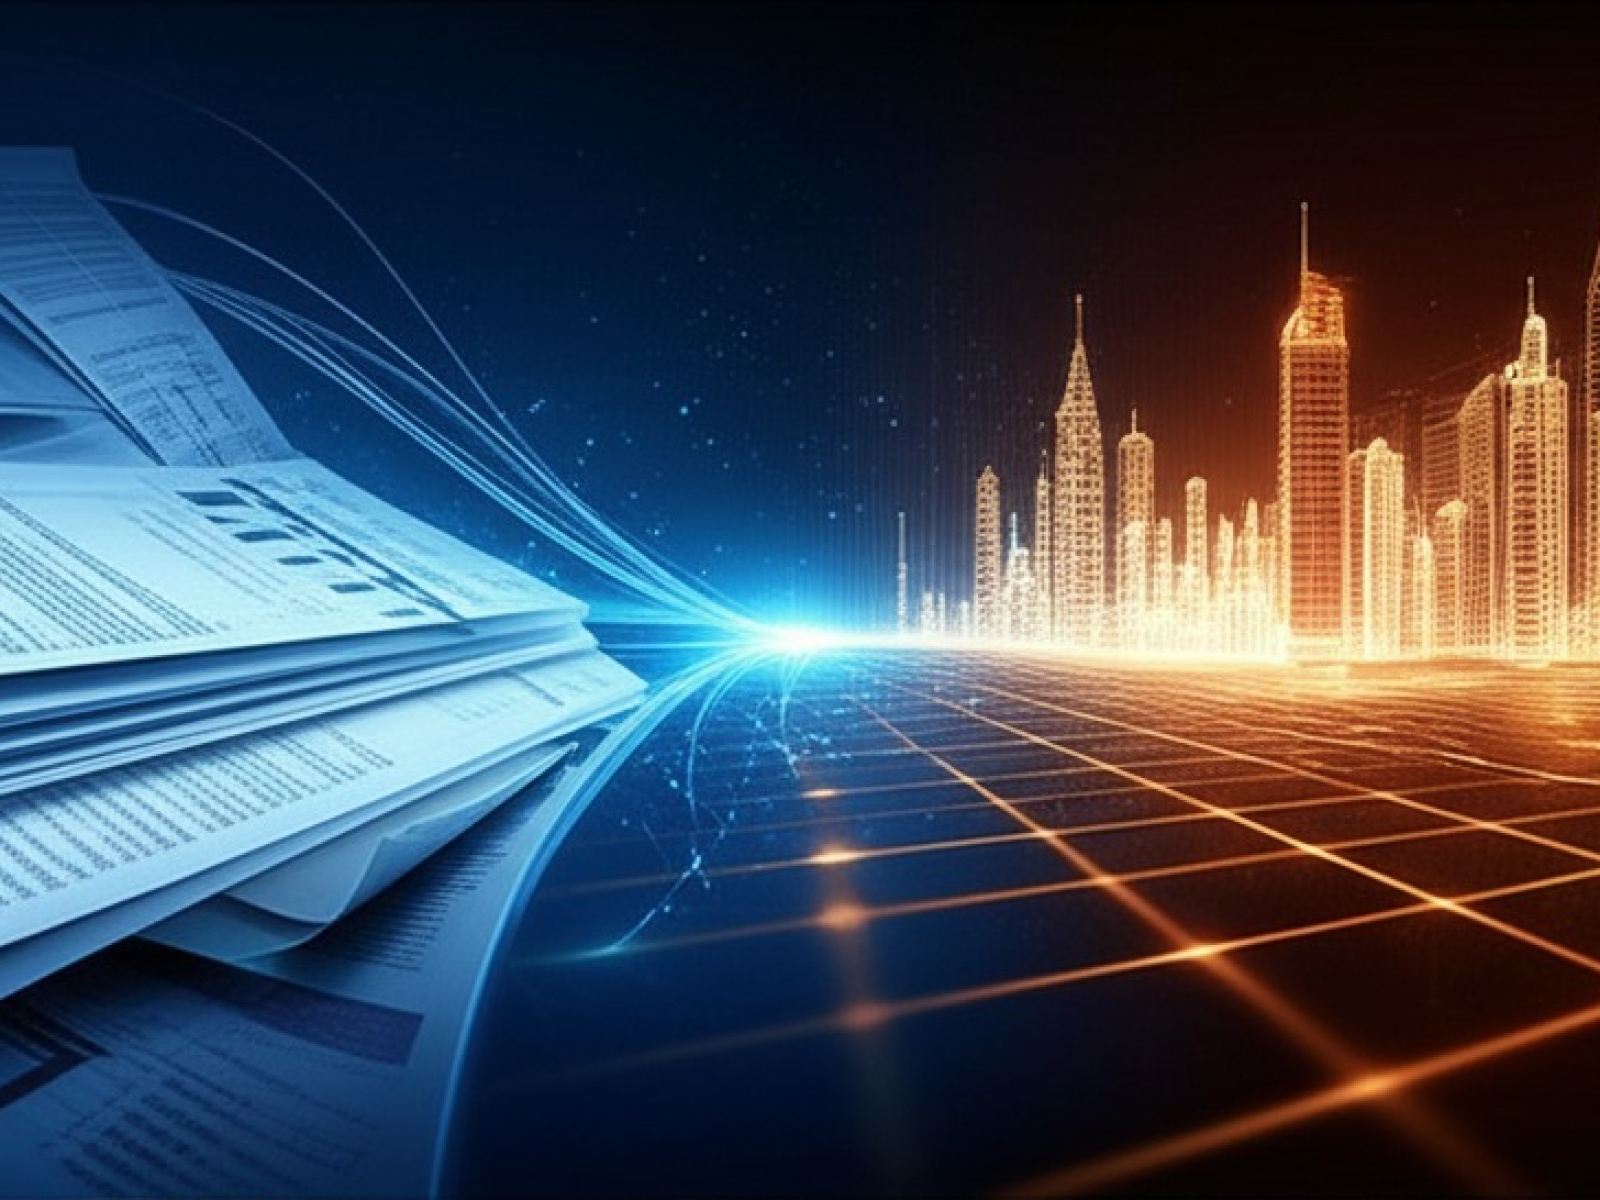
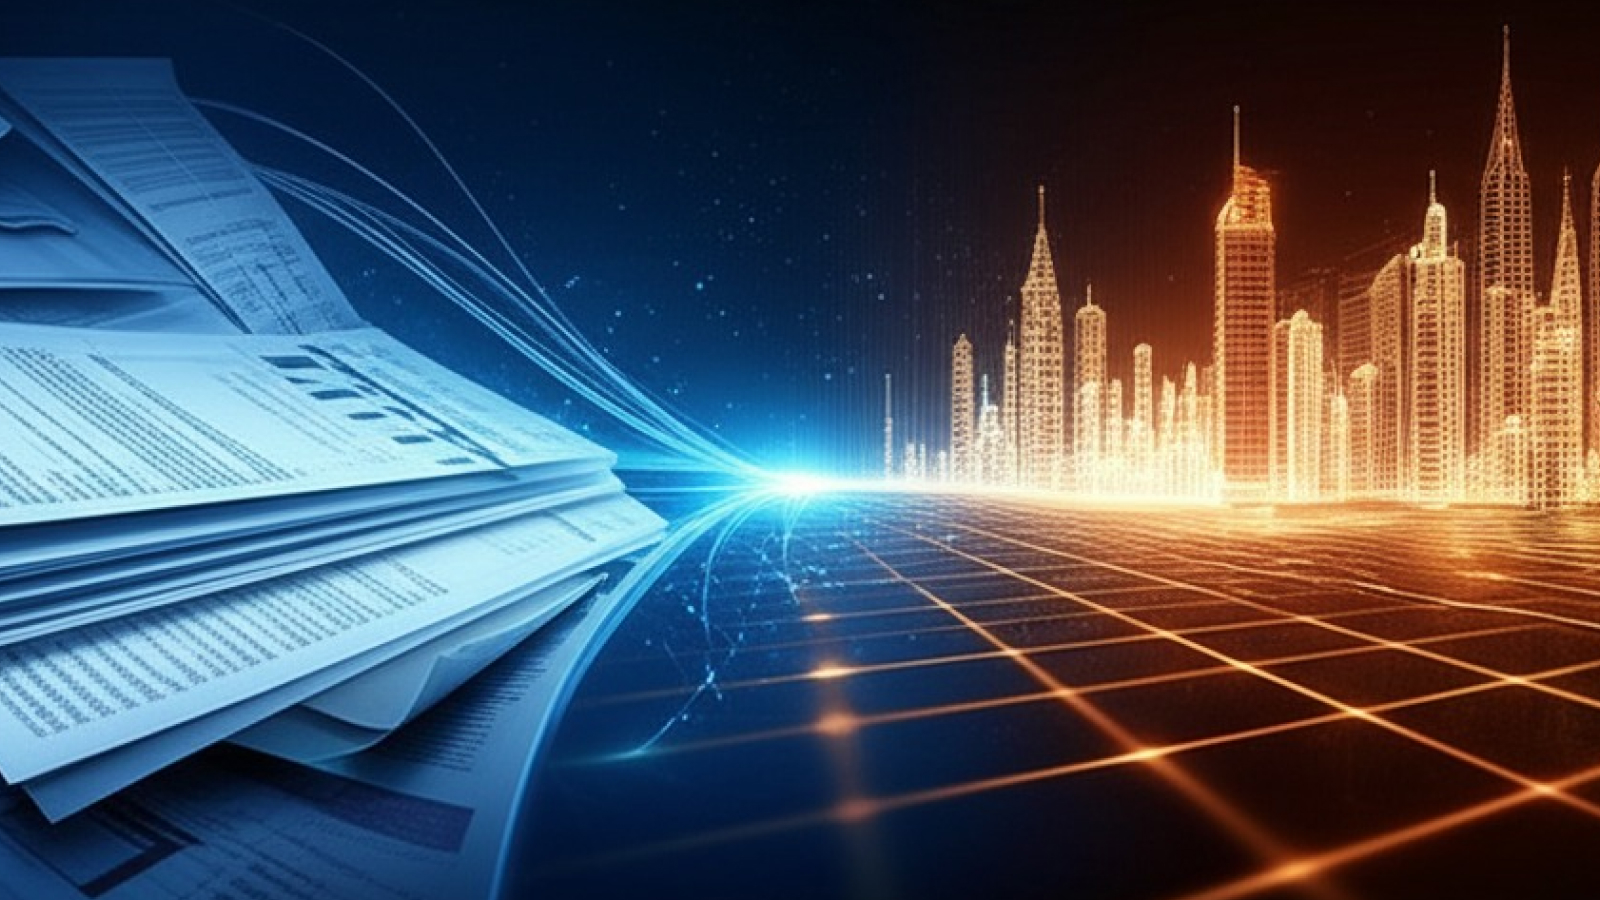
feat: update image, fix content a bit

diff --git a/components/stories/EcommerceCrossPlatformStory.tsx b/components/stories/EcommerceCrossPlatformStory.tsx
@@ -62,23 +62,26 @@ const EcommerceCrossPlatformStory = () => {
 
       <h3>Key Learnings & Impact</h3>
       <p>
-        Though I transitioned to a new role before this project reached full production, the experience was profoundly impactful. I gained deep insights into
-        the complexities and immense benefits of true universal application development. This project was a testament to my ability to:
+        My primary contribution was architecting and delivering the <strong>foundational codebase and infrastructure</strong> for the {`company's`} new
+        universal app strategy. I successfully established a production-ready blueprint that empowered the team to build and scale efficiently across web and
+        mobile.
       </p>
+      <p>This project was a testament to my ability to:</p>
       <ul className="list-disc pl-5 mb-4 space-y-2">
         <li>
-          <strong>Research and Validate Cutting-Edge Technologies:</strong> Successfully identify, evaluate, and adopt a complex new tech stack.
+          <strong>Research and Validate Cutting-Edge Technologies:</strong> Successfully identified, evaluated, and adopted a complex new tech stack (Tamagui,
+          Solito, Monorepo).
         </li>
         <li>
-          <strong>Architect for Scalability and Reuse:</strong> Design a system that maximized code sharing and accelerated future development.
+          <strong>Architect for Scalability and Reuse:</strong> Designed a system that maximized code sharing and accelerated future development.
         </li>
         <li>
-          <strong>Implement Robust DevOps Practices:</strong> Set up automated deployment pipelines critical for rapid iteration.
+          <strong>Implement Robust DevOps Practices:</strong> Set up a fully automated CI/CD pipeline critical for rapid iteration and deployment.
         </li>
       </ul>
       <p>
-        This initiative laid critical groundwork, showcasing a path for the company to efficiently expand its digital presence across platforms with a unified
-        codebase.
+        Ultimately, this initiative laid the <strong>critical groundwork</strong> for the {`company's`} future. It provided a clear, scalable, and unified path
+        for expanding their digital presence across all platforms.
       </p>
     </>
   );

diff --git a/data/project.tsx b/data/project.tsx
@@ -115,7 +115,7 @@ export const projects: {
     tags: ["React", "Redux", "Hapi.js", "PostgreSQL", "AWS S3", "Microservices", "Agile/Scrum", "Jira", "RESTful API", "Database Migration", "Code Review"],
     displayTags: ["React", "Redux", "Hapi.js", "PostgreSQL", "AWS S3"],
     imageCard: "/project-real-estate.jpg",
-    imageStory: "/project-real-estate-story.jpg",
+    imageStory: "/project-real-estate-architecture.jpg",
     seoDescription:
       "Explore the case study of digitizing a real estate investment firm. This story details my experience building a microservices platform with React, Redux, Hapi.js, and PostgreSQL in a professional Agile/Scrum environment.",
   },
